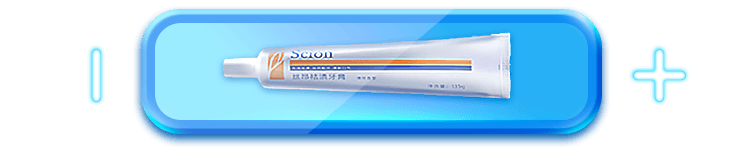
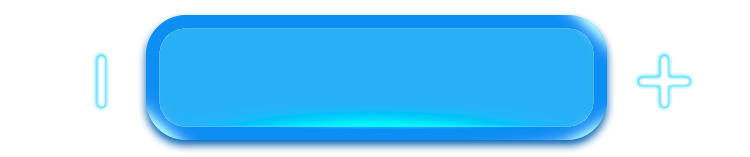
dev

diff --git a/js/animate.js b/js/animate.js
@@ -19,7 +19,7 @@ var Twinkle = (function () {
     // Config
 
     var STAR_VERTEX_NUMS = [4, 6, 8, 10, 12];
-
+    var  MAX_STAR_NUM = 2500
 
     /**
      * @constructor
@@ -67,6 +67,13 @@ var Twinkle = (function () {
                 i, len, p;
             speedRatio = Math.min((mouse.speedX * mouse.speedX + mouse.speedY * mouse.speedY) * 0.005, 1);
 
+            if (particles.length < MAX_STAR_NUM) {
+                magMax = 1 + 4.5 * speedRatio;
+                magMin = 6 + 6 * speedRatio;
+                scaleMax = 0.5 + 0.5 * speedRatio;
+                len = (50 * Math.random() | 0) + (20 * speedRatio | 0);
+                for (i = 0; i < len; i++) this._createParticle(magMin, magMax, scaleMax);
+            }
 
             fieldLeft = -canvasWidth * 0.5;
             fieldRight = canvasWidth * 1.5;
@@ -134,7 +141,7 @@ var Twinkle = (function () {
             this.particles.push(p);
         },
         init() {
-            for (i = 0; i < 500; i++) {
+            for (i = 0; i < 200; i++) {
                 this._createParticle(0.1, 8, 0.8);
             }
         }
@@ -323,8 +330,6 @@ function animateInit() {
         twinkle = new Twinkle(Configs.starColor, Configs.starRadius, Configs.starBlur);
         twinkle.mouse.x = canvas.width / 2;
         twinkle.mouse.y = canvas.height / 2;
-
-        console.log(canvas.width )
         twinkle.init()
         update();
     }

diff --git a/js/common.js b/js/common.js
@@ -20,6 +20,41 @@ var mySwiper = new Swiper ('.swiper-container', {
 })      
 
 // 加载完图片显示星星动画
-Pace.on('done', function() {
- animateInit()
+
+var images = [
+  './images/loading/bg.png',
+  './images/loading/yagao.png',
+  './images/loading/text.png',
+  './images/loading/yagao-img.png',
+  './images/loading/master.png',
+  './images/loading/more.png',
+  './images/screen1/bg.png',
+  './images/screen1/more.png',
+  './images/screen1/ca.png',
+  './images/screen1/cha.png',
+  './images/screen1/chazi.png',
+  './images/screen1/yanzi.png',
+  './images/screen2/bg.png',
+  './images/screen2/rule-btn.png',
+  './images/screen2/buy-btn.png',
+  './images/screen1/more.png'
+]
+var imgCount = 0
+var yaGaoImgEle = document.querySelector('.yagao-img .shadow')
+function calcImageLoad (){
+  imgCount++
+  var progress = Math.ceil(imgCount/images.length*100)
+  yaGaoImgEle.style.boxShadow = `${6*0.01*progress}rem 0px 13px 0px  #99e3ff`
+  yaGaoImgEle.style.width = `${6*0.01*progress}rem`
+  yaGaoImgEle.style.transform = `translateX(-${6*0.01*progress}rem)`
+
+  if(imgCount === images.length){
+    animateInit()
+  }
+}
+
+images.forEach(img=>{
+  var imgObj = new Image()
+  imgObj.src = img
+  imgObj.onload = calcImageLoad
 })

diff --git a/style.css b/style.css
@@ -40,6 +40,9 @@
   top: 10.666667rem;
   width: 100%;
   position: absolute;
+  display: flex;
+  align-items: center;
+  justify-content: center;
 }
 
 .loading .text {
@@ -47,6 +50,32 @@
   background: url('./images/loading/text.png') no-repeat center top/100% auto;
   top: 13.106667rem;
   width: 100%;
+  position: absolute;
+}
+.loading .yagao-img{
+  width: 5.8rem;
+  height: 1.333333rem;
+  /* box-shadow: 2.4rem 0px 13px 0px inset #99e3ff; */
+  border-radius: .4rem;
+  position: relative;
+  overflow: hidden;
+}
+.loading .shadow{
+  width: 0rem;
+  height: 100%;
+}
+.loading .yagao-img:before{
+  content: "";
+  position: absolute;
+  width: 100%;
+  height: 100%;
+  z-index: 9;
+  background: url('./images/loading/yagao-img.png') no-repeat center top/auto 100%;
+}
+.loading  .master{
+  width: 6.133333rem;
+  height: 1.666667rem;
+  background: url('./images/loading/master.png') no-repeat center top/auto 100%;
   position: absolute;
 }
 

diff --git a/index.html b/index.html
@@ -13,15 +13,18 @@
   <link rel="stylesheet" href="./style.css">
   <script src="./js/jquery-3.3.1.min.js"></script>
   <script src="./js/swiper.jquery.min.js"></script>
-  <script src="./js/pace.min.js"></script>
-
 </head>
 
 <body>
   <div class="wrapper swiper-container">
     <div class="swiper-wrapper">
       <div class="screen swiper-slide loading ">
-        <div class="yagao"></div>
+        <div class="yagao">
+          <div class="yagao-img">
+            <div class="shadow"></div>
+          </div>
+          <div class="master"></div>
+        </div>
         <div class="text"></div>
         <div class="more-btn"></div>
         <canvas class="canvas" id="canvas"></canvas>
